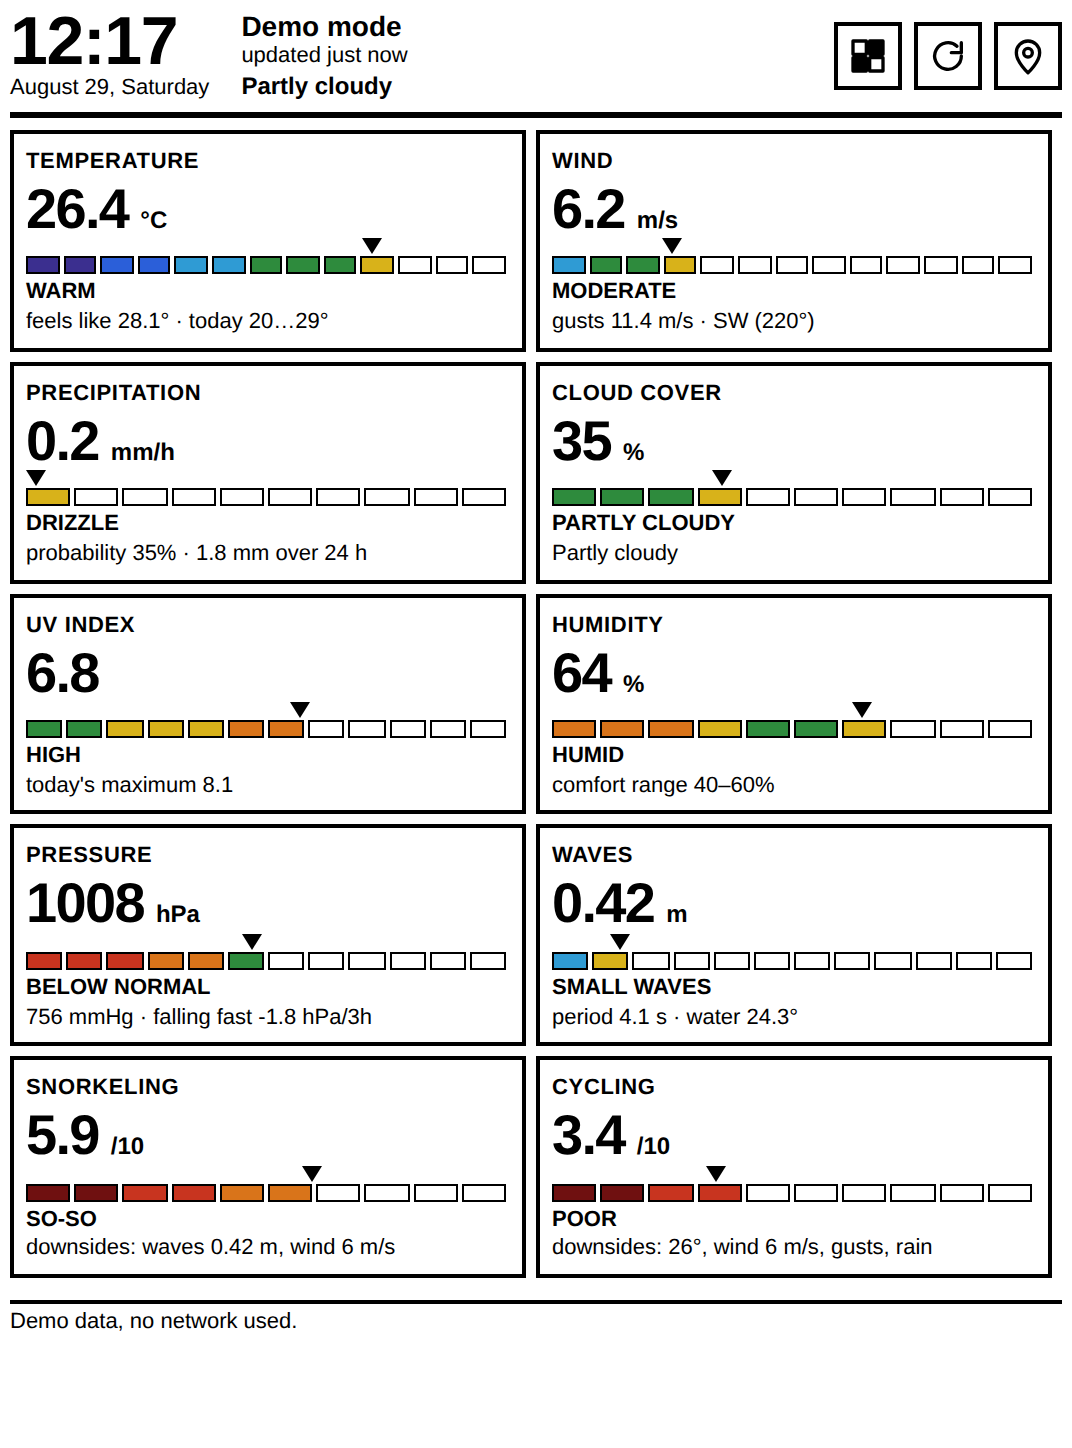
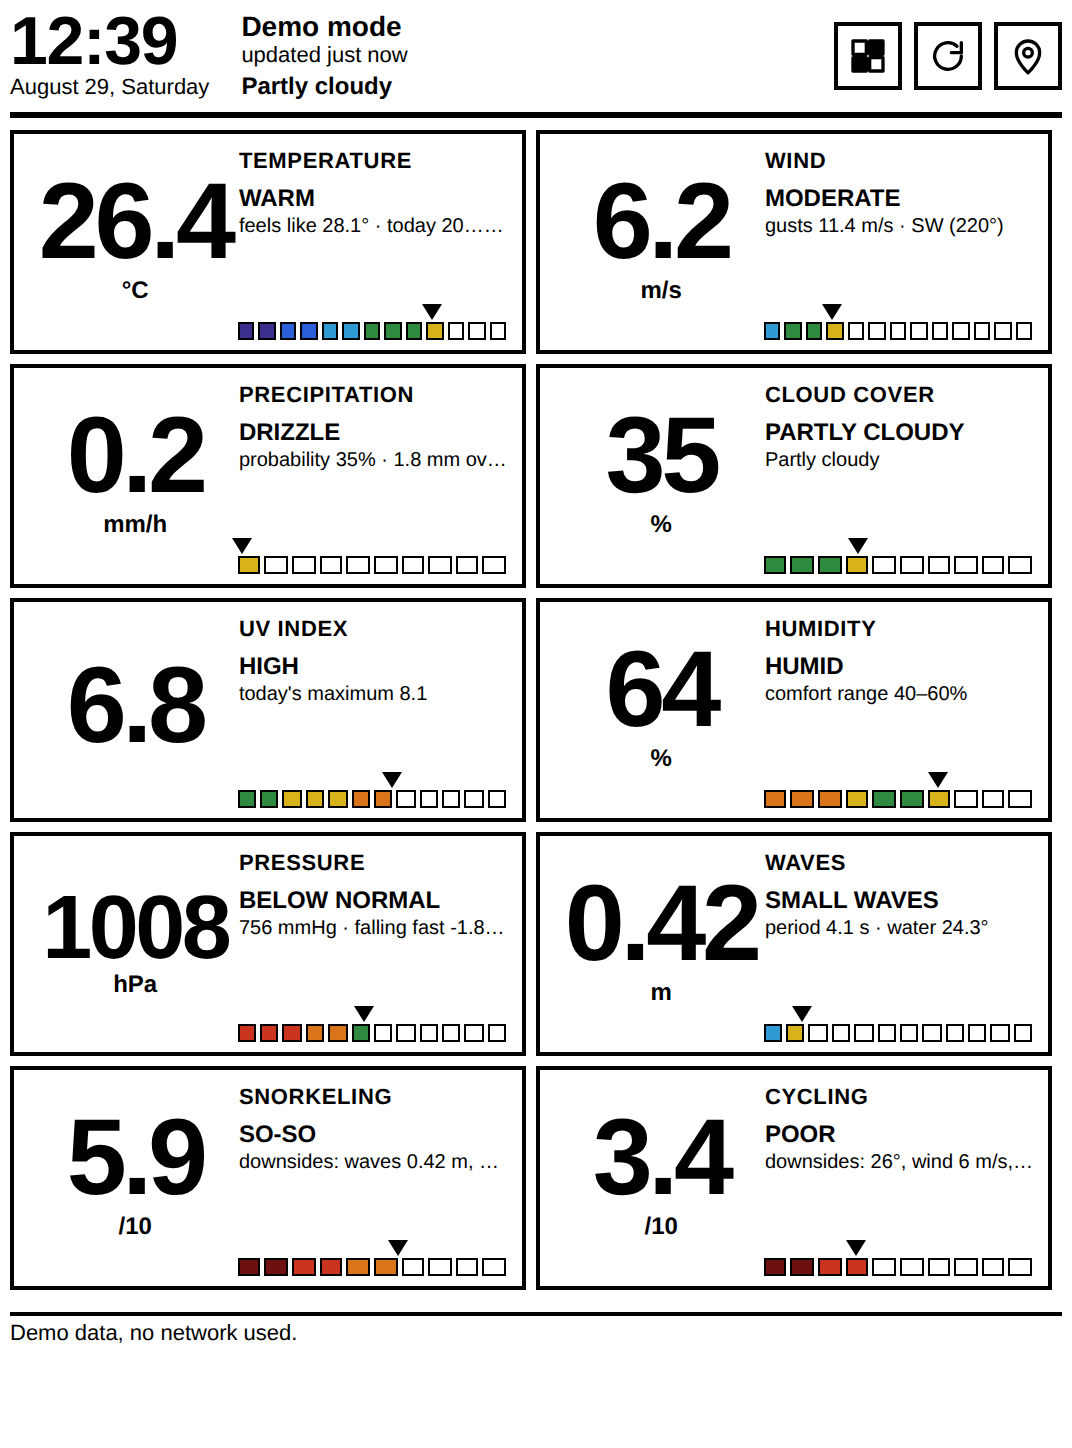
Rebuild the tile so the number fills the cell
Inside a tile the reading now owns the left half over the full height of the
cell at the largest size that still fits the column, with its unit beneath it;
the title, band label and detail line move to the top right and the comfort
slider runs along the bottom right. Absolute positioning does the rearranging
because the DOM is shared with the other three designs.

The detail line is clipped to one line again — at phone width its second line
ran into the slider — and tiles in an incomplete three-column row keep the
width of the rest instead of stretching.

Claude-Session: https://claude.ai/code/session_013SbFinGuhw9MJ6FtXFwKse

diff --git a/css/theme-tiles.css b/css/theme-tiles.css
@@ -1,7 +1,8 @@
 /* Design 4 "Tiles" — every reading at once on one e-ink screen, no scrolling.
-   Each tile keeps the number and a mini slider showing where the value sits in
-   its comfort range; the notes and the 24 h charts are hidden here because on a
-   6" screen they are what pushes the last tiles below the fold. */
+   Inside a tile the number is as large as the cell allows and owns the left
+   half over its full height; the words sit top right and the comfort slider
+   bottom right. The 24 h charts are dropped here — on a 6" screen they are what
+   pushes the last tiles below the fold. */
 
 body[data-theme="tiles"] { background: #ffffff; color: #000000; }
 body[data-theme="tiles"] .app { padding: 4px 5px 8px 5px; }
@@ -24,32 +25,51 @@ body[data-theme="tiles"] .input { border-color: #000; border-radius: 0; }
 body[data-theme="tiles"] .panel { border-color: #000; }
 body[data-theme="tiles"] .hint { font-size: 12px; }
 
+/* Tile layout: the number owns the left half over the full height of the cell,
+   the words sit in the top right and the comfort slider in the bottom right.
+   Absolute positioning rather than reordered flex children — the DOM is shared
+   with the other designs and old WebKit places absolute boxes reliably. */
 body[data-theme="tiles"] .cards { margin-top: 6px; }
 body[data-theme="tiles"] .card {
+  position: relative; min-height: 96px;
   border: 2px solid #000; border-radius: 0;
   flex: 1 1 46%; min-width: 130px;
   margin: 0 5px 5px 0; padding: 3px 6px 5px 6px;
 }
+body[data-theme="tiles"] .card-value-row {
+  position: absolute; left: 6px; top: 2px; bottom: 3px; width: 41%;
+  display: flex; flex-direction: column; justify-content: center; align-items: center;
+}
+body[data-theme="tiles"] .card-value {
+  font-size: 40px; line-height: 0.92; letter-spacing: -0.04em; white-space: nowrap;
+}
+body[data-theme="tiles"] .card-unit { font-size: 12px; font-weight: 700; margin: 1px 0 0 0; }
+/* Four-digit readings (pressure) need a smaller step to stay on one line. */
+body[data-theme="tiles"] .card[data-metric="pressure"] .card-value { font-size: 32px; }
+
+body[data-theme="tiles"] .card-head,
+body[data-theme="tiles"] .card-band,
+body[data-theme="tiles"] .card-note { margin-left: 44%; }
 body[data-theme="tiles"] .card-head { display: block; }
 body[data-theme="tiles"] .card-title {
   font-size: 11px; text-transform: uppercase; letter-spacing: 0.03em; display: inline;
 }
 body[data-theme="tiles"] .card-badge { display: none; }
-body[data-theme="tiles"] .card-value { font-size: 28px; line-height: 1.05; }
-body[data-theme="tiles"] .card-unit { font-size: 12px; font-weight: 700; }
-body[data-theme="tiles"] .card-band { font-size: 11px; margin-top: 3px; text-transform: uppercase; }
+body[data-theme="tiles"] .card-band { font-size: 12px; margin-top: 2px; text-transform: uppercase; }
 /* The 24 h charts are what push the last tiles below the fold, so they only
-   live on the roomier designs; the note stays, clipped to a single line. */
+   live on the roomier designs; the note stays, clipped to one line. */
 body[data-theme="tiles"] .spark,
 body[data-theme="tiles"] .spark-cap,
 body[data-theme="tiles"] .scale-ends { display: none; }
 body[data-theme="tiles"] .card-note {
-  font-size: 11px; margin-top: 1px;
+  font-size: 10px; margin-top: 1px;
   white-space: nowrap; overflow: hidden; text-overflow: ellipsis;
 }
 
-/* The mini slider: a short segmented track with the marker riding on top. */
-body[data-theme="tiles"] .scale { padding-top: 9px; }
+/* The mini slider sits along the bottom of the right-hand column. */
+body[data-theme="tiles"] .scale {
+  position: absolute; left: 44%; right: 6px; bottom: 5px; padding-top: 9px;
+}
 body[data-theme="tiles"] .seg { height: 9px; border: 1px solid #000; margin-right: 2px; }
 body[data-theme="tiles"] .seg-off { background: #ffffff; }
 body[data-theme="tiles"] .scale-marker {
@@ -69,9 +89,18 @@ body[data-theme="tiles"] .seg-on.lv-warn { background: #d9741a; }
 body[data-theme="tiles"] .seg-on.lv-bad  { background: #c8341f; }
 body[data-theme="tiles"] .seg-on.lv-crit { background: #6f1010; }
 
-/* Three columns once the screen is wide enough for them. */
+/* From this width the number column is wide enough for a much bigger step. */
+@media (min-width: 480px) {
+  body[data-theme="tiles"] .card-value { font-size: 54px; }
+  body[data-theme="tiles"] .card[data-metric="pressure"] .card-value { font-size: 45px; }
+  body[data-theme="tiles"] .card { min-height: 112px; }
+  body[data-theme="tiles"] .card-value-row { width: 43%; }
+}
+
+/* Three columns once the screen is wide enough. The width cap keeps the last
+   tile of an incomplete row the same size as the rest instead of stretching. */
 @media (min-width: 620px) {
-  body[data-theme="tiles"] .card { flex: 1 1 30%; }
+  body[data-theme="tiles"] .card { flex: 1 1 30%; max-width: 33.4%; }
 }
 @media (max-width: 430px) {
   body[data-theme="tiles"] .card { flex: 1 1 46%; margin-right: 5px; }

diff --git a/js/app.js b/js/app.js
@@ -11,7 +11,7 @@
   var HOUR = 60 * 60 * 1000;
   /* Shown in the Place panel: on a full-screen browser it is the only way to
      tell whether a new build actually arrived. Bump it with every release. */
-  var APP_VERSION = '2026.08.29';
+  var APP_VERSION = '2026.08.29-2';
 
   var settings = Store.load();
   var demoMode = /[?&]demo=1/.test(location.search);

diff --git a/README.md b/README.md
@@ -18,10 +18,12 @@ Four designs ship with the app and are cycled with the grid icon in the top bar.
    e-ink and repaints are expensive. Colour appears only inside the scales,
    where Kaleido actually shows it.
 2. **Tiles** (`tiles`) — all ten readings on one 6" screen with no scrolling:
-   a two-column grid (three columns from 620 px), and every tile carries the
-   number, a mini slider showing where the value sits in its comfort range, the
-   band label and one clipped line of detail. The 24-hour charts are dropped
-   here — they are what pushes the last tiles below the fold.
+   a two-column grid (three columns from 620 px). Inside each tile the number is
+   as large as the cell allows and owns the left half over its full height, with
+   the unit beneath it; the title, the band label and one clipped line of detail
+   sit in the top right, and the comfort slider runs along the bottom right. The
+   24-hour charts are dropped here — they are what pushes the last tiles below
+   the fold.
 3. **Night** (`night`) — for phones: two tiles per row, temperature across the
    full width, 18 px corners, a thin solid scale bar. The dark background is
    easy on an OLED panel and on the eyes at night.
